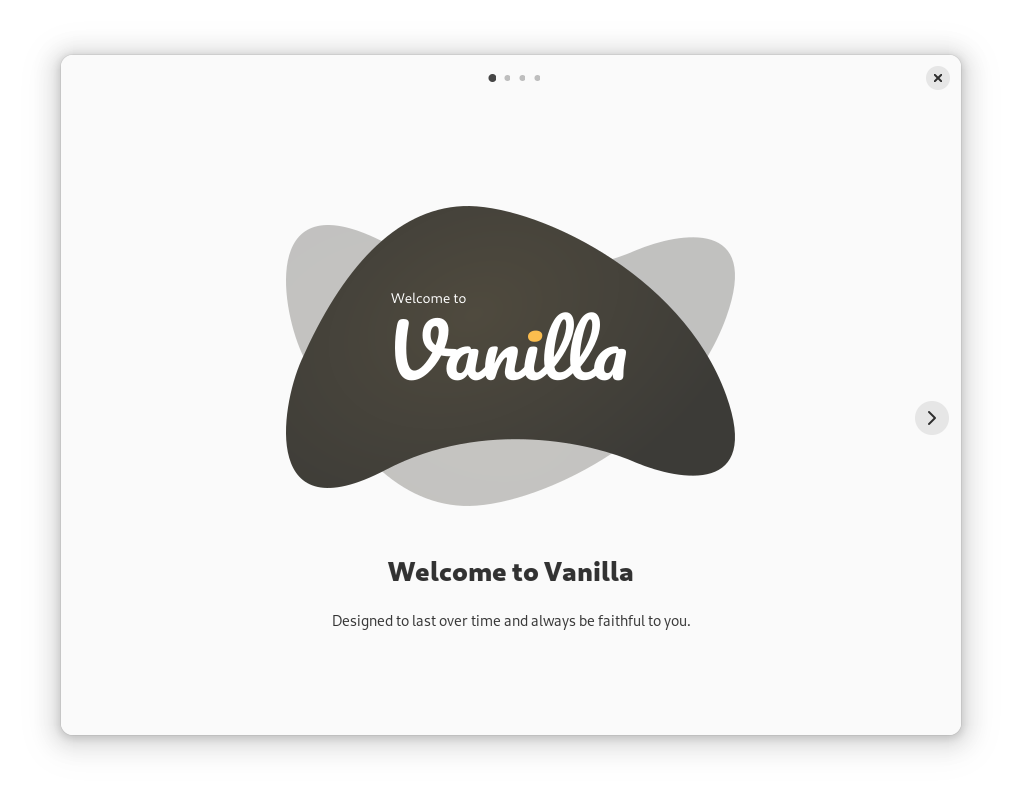
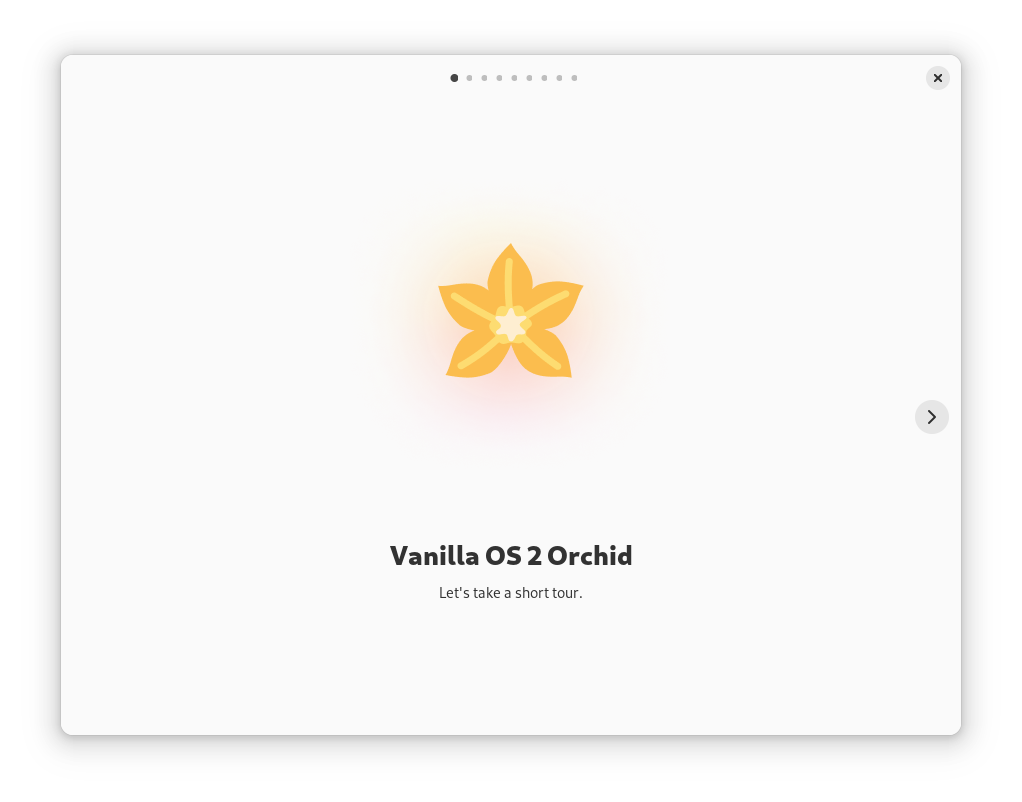
fix[close #7]: wrong description, minor changes (#8)
* fix[close #7]: wrong description, minor changes

* fix: typo

---------

Changed region(s): [[0.273, 0.2494, 0.728, 0.7793], [0.455, 0.0935, 0.546, 0.1247]]

diff --git a/vanilla_tour/slide.py b/vanilla_tour/slide.py
@@ -1,6 +1,6 @@
 # slide.py
 #
-# Copyright 2023 Muqtadir
+# Copyright 2024 Muqtadir
 #
 # This program is free software: you can redistribute it and/or modify
 # it under the terms of the GNU General Public License as published by
@@ -49,4 +49,5 @@ class Slide(Adw.Bin):
                 webbrowser.open(self.__slide["action"]["callback"].split("url://")[1])
 
         elif self.__slide["action"]["callback"].startswith("cmd://"):
-            GLib.spawn_command_line_async(self.__slide["action"]["callback"].split("cmd://")[1])   
+            GLib.spawn_command_line_async(self.__slide["action"]["callback"].split("cmd://")[1])
+ 

diff --git a/vanilla_tour/main.py b/vanilla_tour/main.py
@@ -1,6 +1,6 @@
 # main.py
 #
-# Copyright 2023 Muqtadir
+# Copyright 2024 Muqtadir
 #
 # This program is free software: you can redistribute it and/or modify
 # it under the terms of the GNU General Public License as published by

diff --git a/README.md b/README.md
@@ -19,7 +19,7 @@
 - blueprint-compiler
 
 ```bash
-meson build
+meson setup build
 ninja -C build
 ```
 
